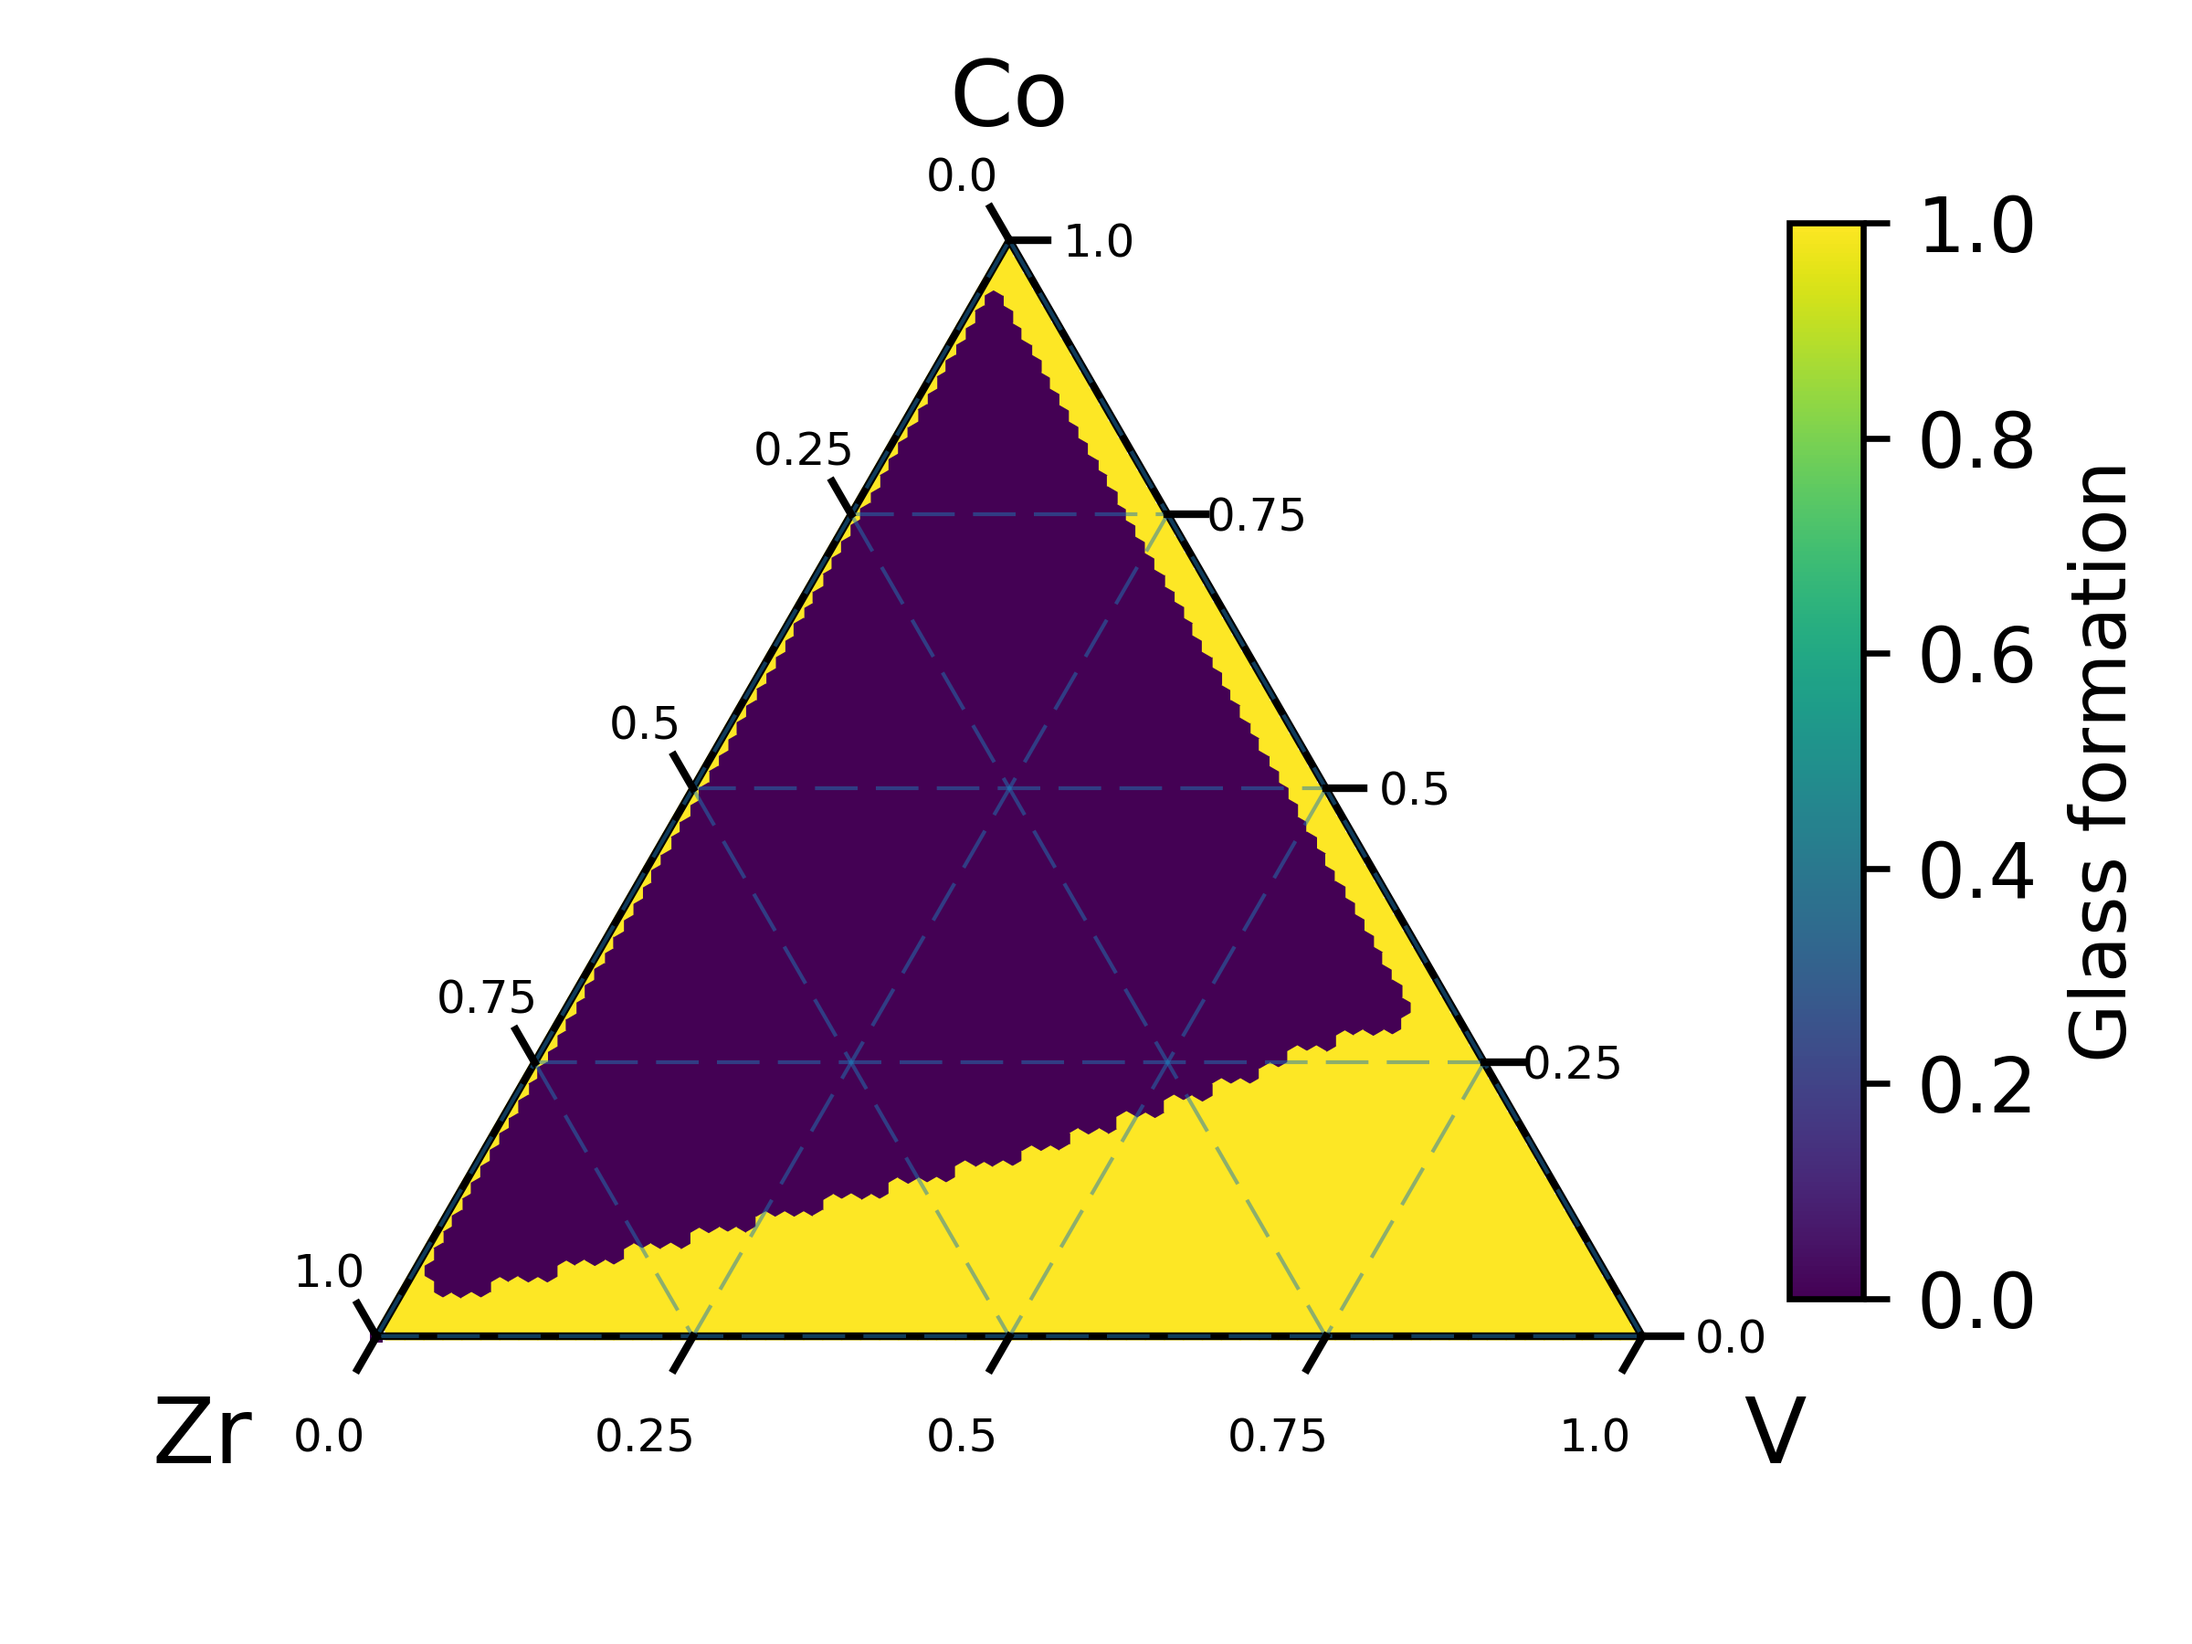
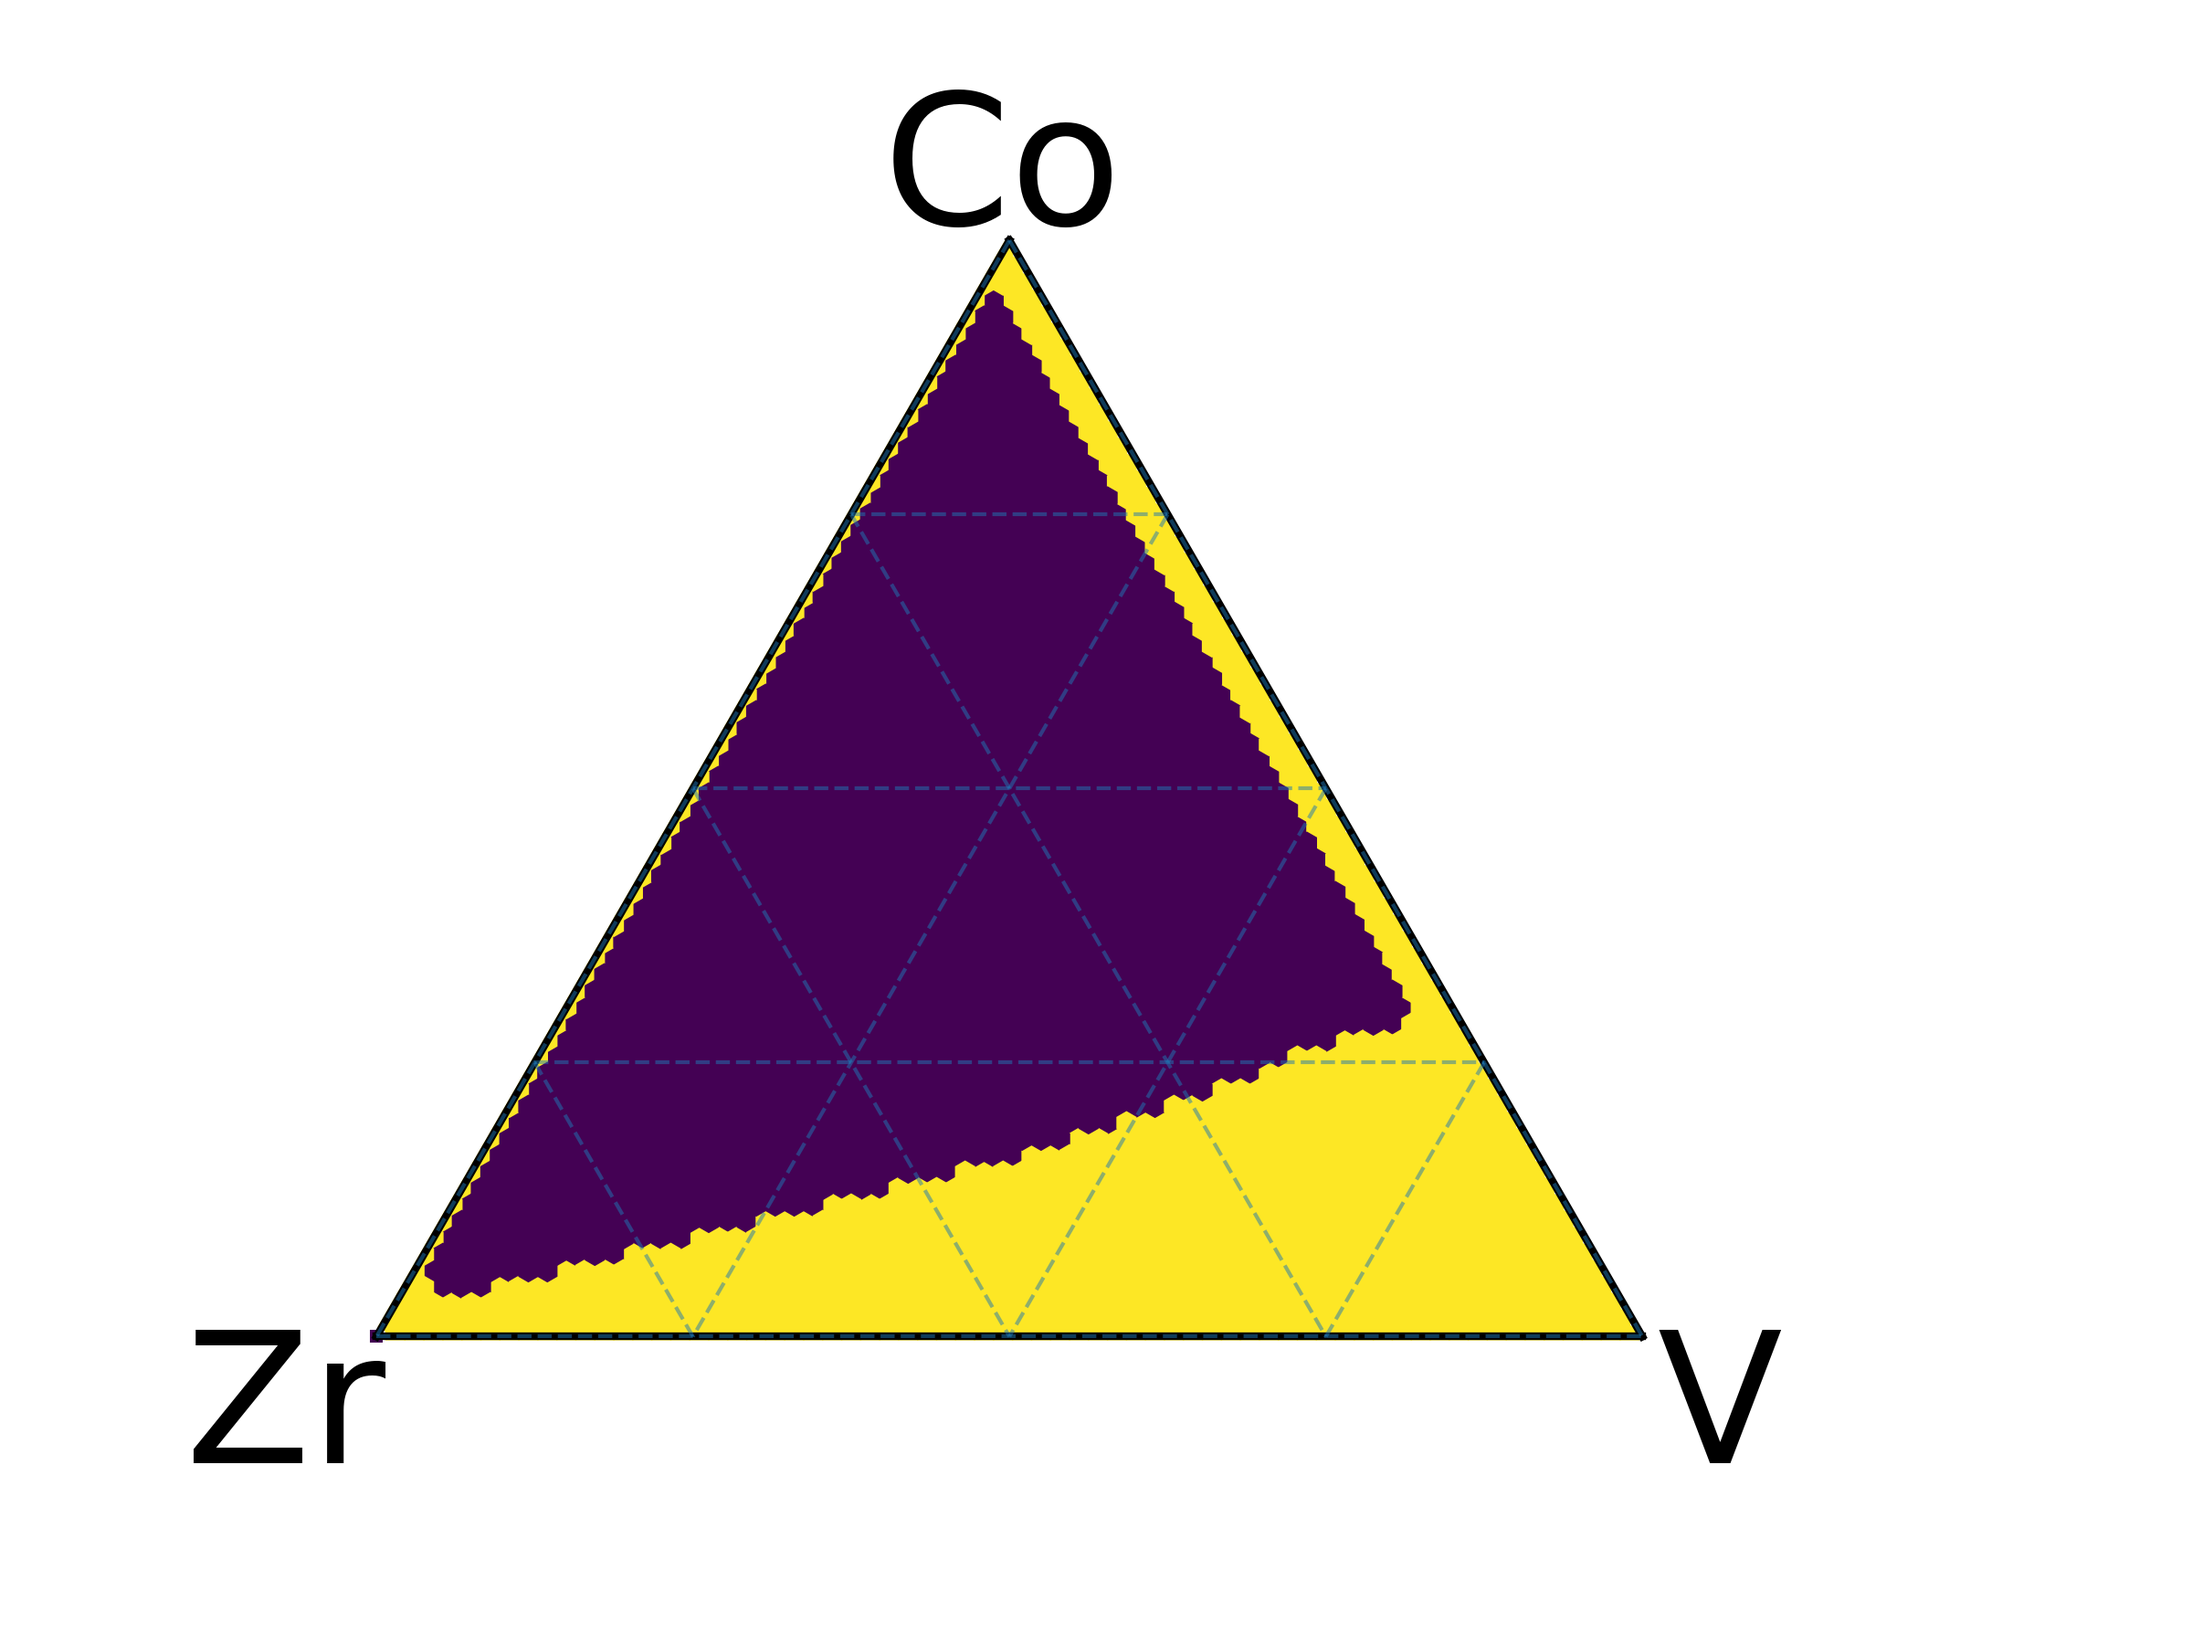
Updated Figure 2b1 2b2

diff --git a/scripts/figure_plotters/plotTernary_small.py b/scripts/figure_plotters/plotTernary_small.py
@@ -1,0 +1,183 @@
+__author__ = "Travis Williams"
+# University of South Carolina
+# Jason Hattrick-Simpers group
+# Starting Date: June, 2016
+
+import matplotlib.pyplot as plt
+import numpy as np
+
+from scripts.figure_plotters import ternary
+
+
+
+
+def plt_ternary_save(data, tertitle='',  labelNames=('Species A','Species B','Species C'), scale=100,
+                       sv=False, svpth=r"C:/Users/Travis W/Pictures/", svflnm='Unnamed',
+                       cbl='Scale', vmin=None, vmax=None, cmap='viridis', cb=True, style='h', show_ticks=True):
+    """
+    Overview
+    ----------
+    This program makes use of the ternary package and creates a ternary colormap
+
+    Parameters
+    ----------
+    data: 4-tup of (a,b,c,i) where a, b, and c are the ternary coordinates and i is the intensity
+    tertitle: chart title
+    labelNames: Names of a, b, and c for chart axes
+    scale: scale of chart (if 0-100, then scale is 100)
+    sv: Boolean, save chart when true, show chart when false
+    svpth: path to save ternary image
+    svflnm: file name for ternary diagram when saving
+    cbl: colorbar label
+    vmin: minimum value of colorbar (leave blank to set to min value in i)
+    vmax: maximum value of colorbar (leave blank to set to max value in i)
+    cmap: determines color map used
+    cb: use colorbar if true
+    style: h = hexagons, d = triangles for point shape
+    show_ticks: plot ticks on the ternary (no ticks if False)
+
+    Returns
+    -------
+
+    """
+    if sv:
+        font = {'size': 24}   # Set font size for **kwargs
+        figsize = (4, 3)
+        ticksize = 6
+        lnwdth = 0.5
+        lnsty = '--'
+        alpha = 0.5
+    else:
+        font = {'size': 30}   # Set font size for **kwargs
+        figsize = (30, 30)
+        ticksize = 20
+        lnwdth = 2
+        lnsty = ':'
+        alpha = 0.5
+
+    d = dict()
+    x = data[:, 1]
+    y = data[:, 0]
+
+    if cb:
+        i = data[:, 3]
+
+        for col in range(1, len(x)):
+            d[(x[col], y[col])] = i[col]
+    else:
+        for col in range(1, len(x)):
+            d[(x[col], y[col])] = 0.5
+
+    # Turn off normal axis, set figure size
+    figure, (ax, cax) = plt.subplots(ncols=2, figsize=figsize, gridspec_kw={"width_ratios":[1, 0.05]})
+    ax.axis("off")
+
+    # Create ternary axes (tax)
+    figure, tax = ternary.figure(ax=ax, scale=scale)
+
+    # Axis Labels (bottom corrisponds to x values, left corrisponds to y values)
+    if show_ticks:
+        tax.bottom_axis_label(labelNames[0], position=(-0.11, 1.22, 0), rotation=0, **font)
+        tax.left_axis_label(labelNames[1], position=(1.05, 0.00, 0), rotation=0, **font)
+        tax.right_axis_label(labelNames[2], position=(-0.08, 0.00, 0), rotation=0, **font)
+    else:
+        tax.bottom_axis_label(labelNames[0], position=(-0.07, 1.13, 0), rotation=0, **font)
+        tax.left_axis_label(labelNames[1], position=(1.01, 0.0, 0.00), rotation=0, **font)
+        tax.right_axis_label(labelNames[2], position=(-0.02, 0.0, 0), rotation=0, **font)
+
+    # Plot data, boundary, gridlines, and ticks
+    tax.heatmap(d, style=style, cmap=cmap, vmin=vmin, vmax=vmax, colorbar=False)
+
+    if cb:
+        cdat = ax.imshow([[0]], vmin=vmin, vmax=vmax)
+        cbar = figure.colorbar(cdat, ax=ax, cax=cax)
+        pos1 = cax.get_position()
+        pos2 = [pos1.x0 + 0.5, pos1.y0 + 0.1, pos1.width, pos1.height * 0.85]
+        cax.set_position(pos2)
+        cbar.set_label(cbl)
+
+    if show_ticks:
+        tax.boundary(linewidth=1)
+        tax.gridlines(multiple=25, linewidth=lnwdth, alpha=alpha, linestyle=lnsty)
+        ticks = [round(i / float(scale), 2) for i in range(0, scale+1, 25)]
+        tax.ticks(ticks=ticks, axis='rlb', linewidth=1, clockwise=False, offset=0.03, textsize=ticksize)
+    else:
+        tax.boundary(linewidth=1)
+        tax.gridlines(multiple=25, linewidth=lnwdth, alpha=0.50, linestyle=lnsty)
+
+    # Set chart title
+    tax.set_title(tertitle)
+
+    # Make chart pretty
+    tax.clear_matplotlib_ticks()
+    tax._redraw_labels()
+    # plt.tight_layout()
+
+    # Save or show
+    if sv:
+        plt.savefig(''.join([svpth, svflnm]), dpi=600)
+    else:
+        tax.show()
+
+def plt_tern_scatter(data, tertitle='',  labelNames=('Species A','Species B','Species C'), scale=100,
+                       sv=False, svpth=r"C:/Users/Travis W/Pictures/", svflnm='Unnamed',
+                       clr='k'):
+    font = {'size': 24}
+
+    # Turn off normal axis, set figure size
+    figsize = [10,10]
+    figure, ax = plt.subplots(figsize=figsize)
+    ax.axis("off")
+
+    figure, tax = ternary.figure(scale=scale)
+    tax.set_title(tertitle, fontsize=20)
+    tax.boundary(linewidth=2.0)
+    tax.gridlines(multiple=25, color="k")
+
+    # Axis Labels (bottom corrisponds to x values, left corrisponds to y values)
+    tax.bottom_axis_label(labelNames[1], offset=0, **font)
+    tax.left_axis_label(labelNames[2], offset=0.12, **font)
+    tax.right_axis_label(labelNames[0], offset=0.12, **font)
+
+    points = np.array([data[:,1], data[:,0]]).T
+
+    # for WAXS MG stuff
+
+    color = data[:, 3]
+    print(color.shape)
+    clrs = list()
+
+    for i, col in enumerate(color):
+        if col == 0:
+            clrs.append('aqua')
+        elif col == 1:
+            clrs.append('lawngreen')
+        else:
+            clrs.append('yellow')
+    # print(points, clrs)
+
+    # end wax MG stuff
+
+    tax.scatter(points, marker='o', color=clrs, s=100)
+    tax.ticks(axis='lbr', linewidth=1, multiple=25, textsize=14)
+
+    # Set chart title
+    tax.set_title(tertitle)
+
+    # Make chart pretty
+    tax.clear_matplotlib_ticks()
+    tax._redraw_labels()
+    plt.tight_layout()
+    plt.axis('off')
+
+    if sv:
+        plt.savefig(''.join([svpth, svflnm]), dpi=600)
+    else:
+        tax.show()
+        
+#
+#data = np.genfromtxt('test_data.csv', delimiter=',')
+##plt_ternary_save(data, tertitle='',  labelNames=('Co','Fe','V'), scale=100,
+##                       sv=False, svpth=r"C:/Users/Travis W/Pictures/", svflnm='Unnamed',
+##                       cbl='Scale', vmin=1, vmax=5, cmap='viridis', cb=True, style='h')
+#

diff --git a/scripts/figure_plotters/Figure2b1_thermodynamic_theory.py b/scripts/figure_plotters/Figure2b1_thermodynamic_theory.py
@@ -137,10 +137,10 @@ ternary_data = np.transpose(ternary_data)
 #                       cbl='Scale', vmax = 1.8, vmin = -1.2, cmap='viridis_r', cb=True, style='h')
 
 
-from plotTernary import plt_ternary_save
+from plotTernary_small import plt_ternary_save
 plt_ternary_save(ternary_data, tertitle='',  labelNames=('Co','V','Zr'), scale=100,
                       sv=True, svpth=path, svflnm='Figure2b1',
-                      cbl='Glass formation', vmax = 1, vmin = 0, cmap='viridis_r', cb=True, style='h')
+                      cbl='Glass formation', vmax = 1, vmin = 0, cmap='viridis_r', cb=True, style='h', show_ticks= False)
 
 # np.savetxt(path+'thermodynamic.csv', ternary_data, delimiter=',')
 

diff --git a/scripts/figure_plotters/Figure2b2_structural_theory.py b/scripts/figure_plotters/Figure2b2_structural_theory.py
@@ -7,7 +7,7 @@ author: Fang Ren (SSRL)
 
 import numpy as np
 import imp
-from plotTernary import plt_ternary_save
+from plotTernary_small import plt_ternary_save
 
 save_path = '..//..//figures//'
 
@@ -83,4 +83,4 @@ ternary_data = np.transpose(ternary_data)
 
 plt_ternary_save(ternary_data, tertitle='', labelNames=('Co', 'V', 'Zr'), scale=100,
                              sv=True, svpth=save_path, svflnm= 'Figure2b2.png',
-                             cbl='Glass formation', vmax = 1, vmin = 0, cmap='viridis_r', cb=True, style='h')
+                             cbl='Glass formation', vmax = 1, vmin = 0, cmap='viridis_r', cb=True, style='h', show_ticks= False)
